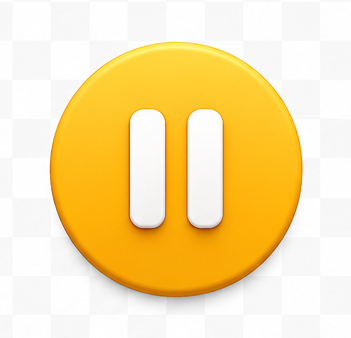
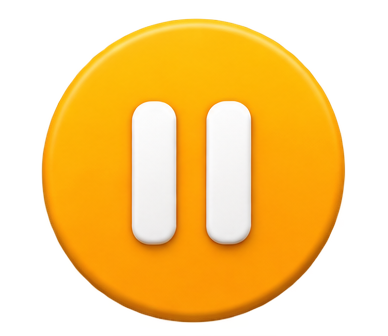
Update custom action emojis

diff --git a/index.html b/index.html
@@ -6269,7 +6269,7 @@
 
   <div class="app">
     <style>
-      .c-ico { width: 15px; height: 15px; vertical-align: middle; margin-right: 4px; margin-top: -2px; }
+      .c-ico { width: 15px; height: 15px; vertical-align: middle; margin-right: 4px; margin-top: -2px; transform: scale(1.65); }
     </style>
 
 
